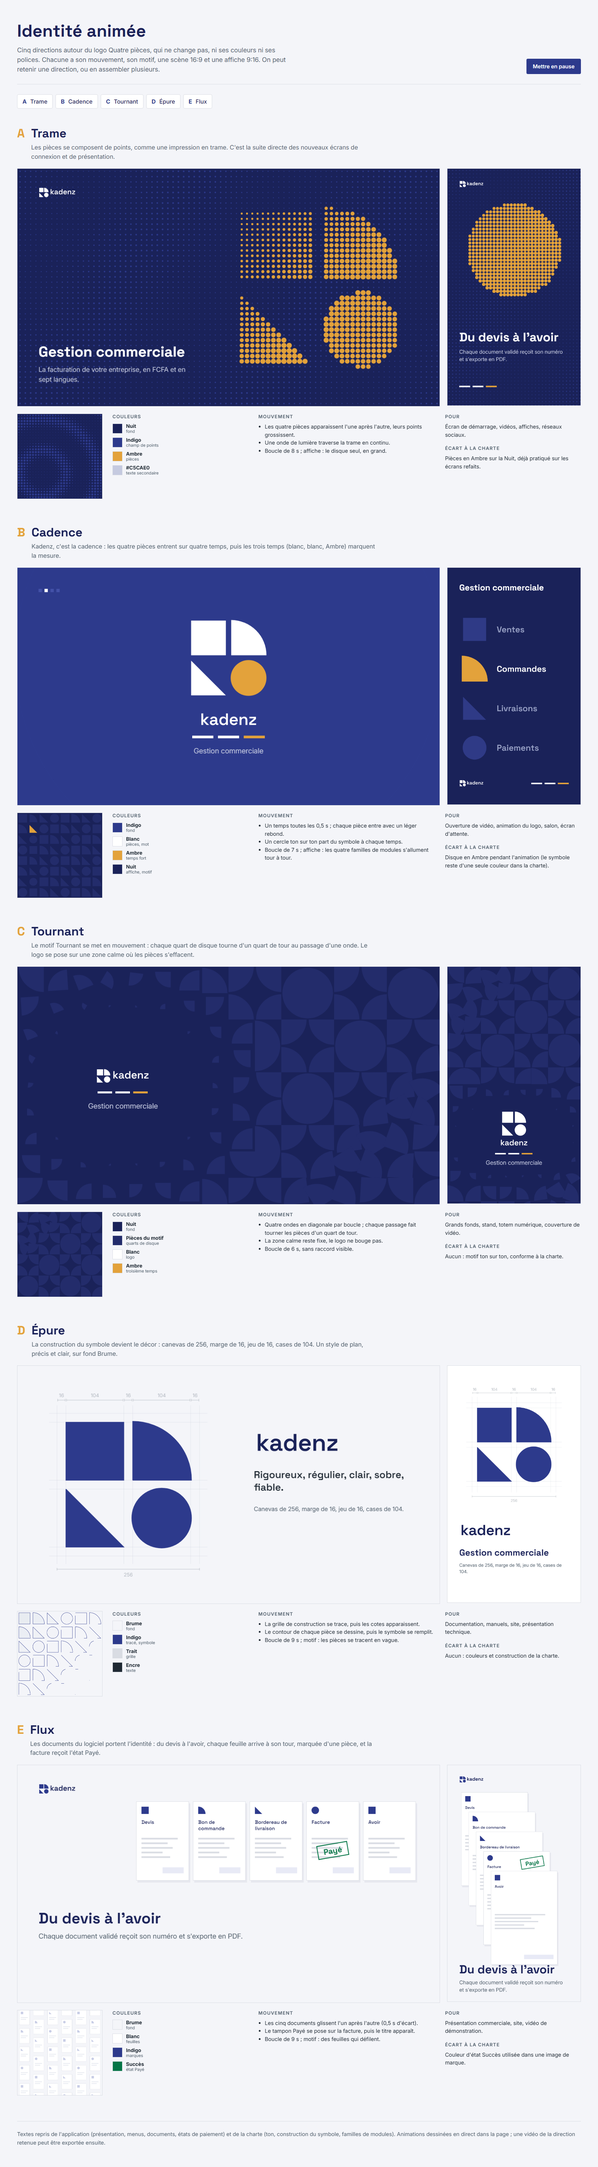
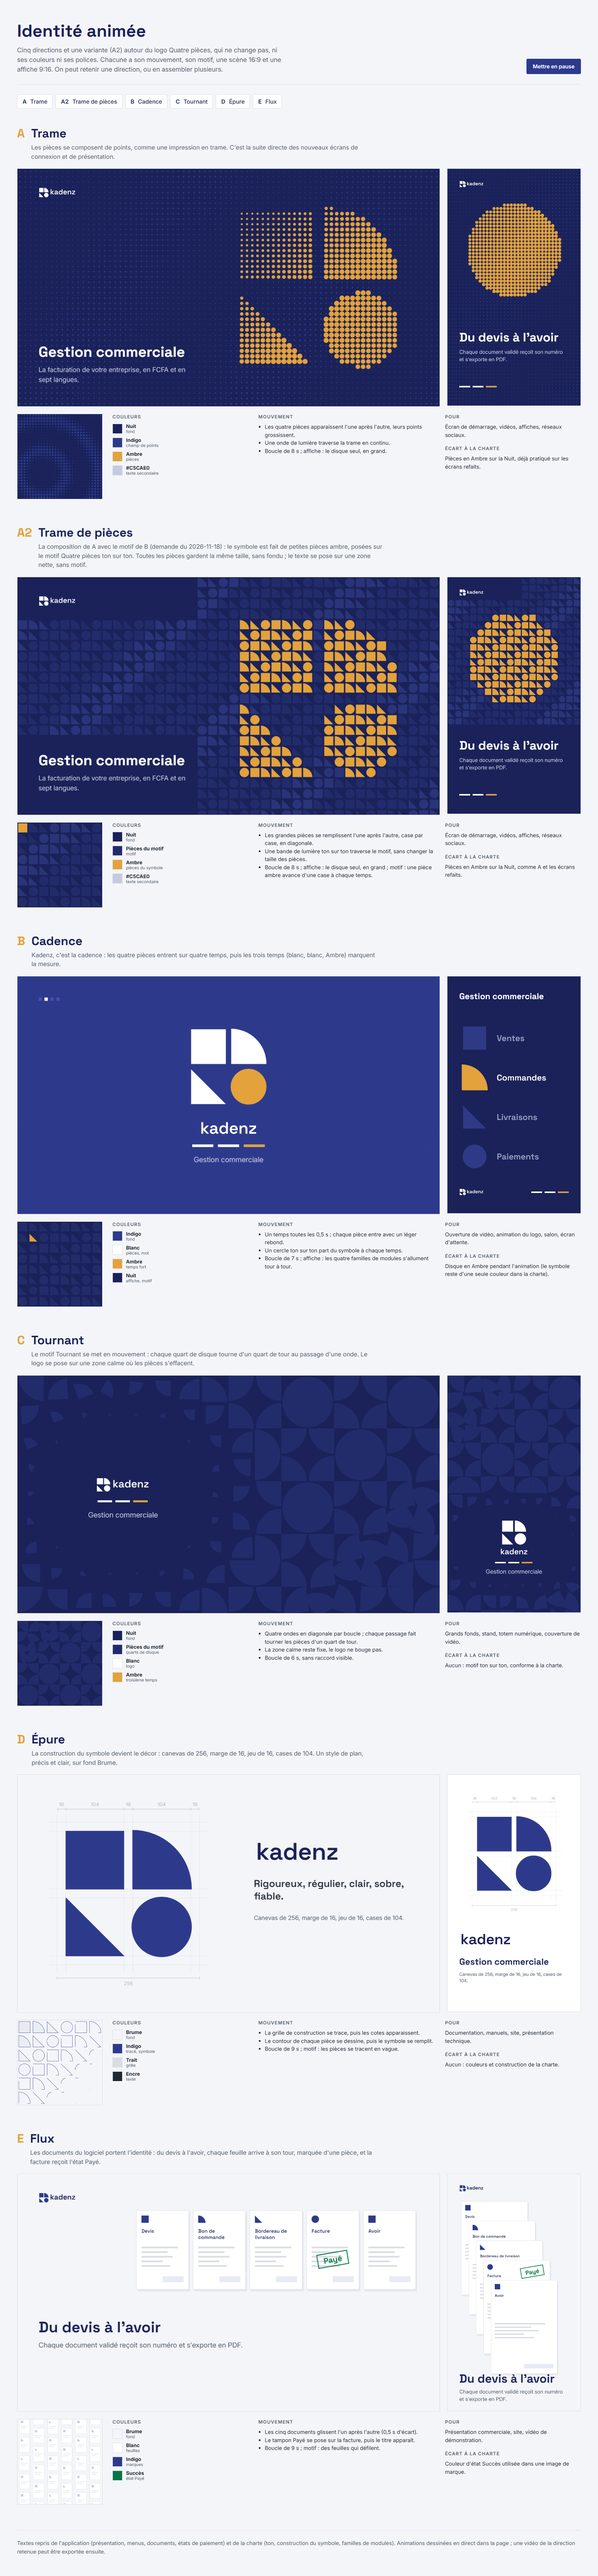
Marque : identité animée, variante A2 Trame de pièces

diff --git a/docs/marque/propositions-2026-11-18-identite-animee/index.html b/docs/marque/propositions-2026-11-18-identite-animee/index.html
@@ -51,12 +51,12 @@ footer { border-top:1px solid var(--trait); padding-top:24px; color:var(--ardois
 <body>
 <div class="entete">
   <div><h1>Identité animée</h1>
-  <p>Cinq directions autour du logo Quatre pièces, qui ne change pas, ni ses couleurs ni ses polices.
+  <p>Cinq directions et une variante (A2) autour du logo Quatre pièces, qui ne change pas, ni ses couleurs ni ses polices.
   Chacune a son mouvement, son motif, une scène 16:9 et une affiche 9:16. On peut retenir une direction,
   ou en assembler plusieurs.</p></div>
   <button id="pause" type="button">Mettre en pause</button>
 </div>
-<nav><a href="#dir-A"><b>A</b> Trame</a><a href="#dir-B"><b>B</b> Cadence</a><a href="#dir-C"><b>C</b> Tournant</a><a href="#dir-D"><b>D</b> Épure</a><a href="#dir-E"><b>E</b> Flux</a></nav>
+<nav><a href="#dir-A"><b>A</b> Trame</a><a href="#dir-A2"><b>A2</b> Trame de pièces</a><a href="#dir-B"><b>B</b> Cadence</a><a href="#dir-C"><b>C</b> Tournant</a><a href="#dir-D"><b>D</b> Épure</a><a href="#dir-E"><b>E</b> Flux</a></nav>
 <section id="dir-A">
   <header><span class="lettre">A</span><h2>Trame</h2><p>Les pièces se composent de points, comme une impression en trame. C'est la suite directe des nouveaux écrans de connexion et de présentation.</p></header>
   <div class="grille">
@@ -68,6 +68,19 @@ footer { border-top:1px solid var(--trait); padding-top:24px; color:var(--ardois
     <div><h3>Couleurs</h3><div class="puces"><span class="puce"><i style="background:#1A2259"></i><b>Nuit</b><small>fond</small></span><span class="puce"><i style="background:#2D3A8C"></i><b>Indigo</b><small>champ de points</small></span><span class="puce"><i style="background:#E3A23B"></i><b>Ambre</b><small>pièces</small></span><span class="puce"><i style="background:#C5CAE0"></i><b>#C5CAE0</b><small>texte secondaire</small></span></div></div>
     <div><h3>Mouvement</h3><ul><li>Les quatre pièces apparaissent l'une après l'autre, leurs points grossissent.</li><li>Une onde de lumière traverse la trame en continu.</li><li>Boucle de 8 s ; affiche : le disque seul, en grand.</li></ul></div>
     <div><h3>Pour</h3><p>Écran de démarrage, vidéos, affiches, réseaux sociaux.</p><h3>Écart à la charte</h3><p>Pièces en Ambre sur la Nuit, déjà pratiqué sur les écrans refaits.</p></div>
+  </div>
+</section>
+<section id="dir-A2">
+  <header><span class="lettre">A2</span><h2>Trame de pièces</h2><p>La composition de A avec le motif de B (demande du 2026-11-18) : le symbole est fait de petites pièces ambre, posées sur le motif Quatre pièces ton sur ton. Toutes les pièces gardent la même taille, sans fondu ; le texte se pose sur une zone nette, sans motif.</p></header>
+  <div class="grille">
+    <canvas data-dir="A2" data-cadre="scene" width="1280" height="720"></canvas>
+    <canvas data-dir="A2" data-cadre="affiche" width="540" height="960"></canvas>
+  </div>
+  <div class="infos">
+    <canvas data-dir="A2" data-cadre="motif" width="480" height="480"></canvas>
+    <div><h3>Couleurs</h3><div class="puces"><span class="puce"><i style="background:#1A2259"></i><b>Nuit</b><small>fond</small></span><span class="puce"><i style="background:#232C6B"></i><b>Pièces du motif</b><small>motif</small></span><span class="puce"><i style="background:#E3A23B"></i><b>Ambre</b><small>pièces du symbole</small></span><span class="puce"><i style="background:#C5CAE0"></i><b>#C5CAE0</b><small>texte secondaire</small></span></div></div>
+    <div><h3>Mouvement</h3><ul><li>Les grandes pièces se remplissent l'une après l'autre, case par case, en diagonale.</li><li>Une bande de lumière ton sur ton traverse le motif, sans changer la taille des pièces.</li><li>Boucle de 8 s ; affiche : le disque seul, en grand ; motif : une pièce ambre avance d'une case à chaque temps.</li></ul></div>
+    <div><h3>Pour</h3><p>Écran de démarrage, vidéos, affiches, réseaux sociaux.</p><h3>Écart à la charte</h3><p>Pièces en Ambre sur la Nuit, comme A et les écrans refaits.</p></div>
   </div>
 </section>
 <section id="dir-B">
@@ -226,6 +239,29 @@ function trame(c, w, h, o) {
   }
 }
 
+// Trame de pièces : le motif Quatre pièces (une pièce par case, décalée d'un temps à
+// chaque ligne) ; dans le symbole, les pièces passent en Ambre case par case. Taille
+// constante, aucun fondu ; vide(x, y) laisse des zones nettes pour le logo et le texte.
+function mosaique(c, w, h, o) {
+  const { ox, oy, S, cell, liste, croissance, T, vide } = o;
+  const m = cell / 2;
+  for (let j = 0; j * cell < h; j++) for (let i = 0; i * cell < w; i++) {
+    const cx = i * cell + m, cy = j * cell + m;
+    if (vide && vide(cx, cy)) continue;
+    const k = ORDRE[(i + j) % 4];
+    const u = (cx - ox) / S * 256, v = (cy - oy) / S * 256;
+    let p = null; for (const q of liste) if (dans(q, u, v)) { p = q; break; }
+    if (p) {
+      const g = croissance[ORDRE.indexOf(p)], [pcx, pcy] = CENTRE[p];
+      const r = clamp(((u - pcx) + (v - pcy)) / 208 + 0.5);
+      const e = g >= 1 ? 1 : eBack(clamp((g * 1.25 - r) / 0.25));
+      if (e > 0.01) { unePiece(c, k, cx, cy, cell * 0.86, C.ambre, e); continue; }
+    }
+    const l = 0.5 + 0.5 * Math.sin((i + j) * 0.45 - T * PI / 2);
+    unePiece(c, k, cx, cy, cell * 0.86, l > 0.8 ? "#2A3478" : C.motif);
+  }
+}
+
 // Tournant : quarts de disque qui tournent d'un quart de tour au passage d'une onde.
 function tournant(c, w, h, T, cell, calme) {
   fond(c, w, h, C.nuit);
@@ -334,6 +370,41 @@ const DIR = {
         const d = Math.hypot(x - w * 0.3, y - h * 0.7);
         const o = 0.5 + 0.5 * Math.sin(d * 0.035 - T * 2.2);
         c.fillStyle = C.indigo; c.beginPath(); c.arc(x, y, pas * (0.08 + 0.3 * o * o), 0, 2 * PI); c.fill();
+      }
+    },
+  },
+  A2: {
+    periode: 8, moment: 4.2,
+    scene(c, w, h, T) {
+      fond(c, w, h, C.nuit);
+      const sortie = 1 - lin(T, 7.3, 0.7);
+      const cr = ORDRE.map((k, i) => lin(T, 0.3 + i * 0.45, 0.9) * sortie);
+      const vide = (x, y) => x < 560 && (y < 120 || y > h - 232);
+      mosaique(c, w, h, { ox: w * 0.5, oy: h * 0.12, S: h * 0.76, cell: 32, liste: ORDRE, croissance: cr, T, vide });
+      const a = lin(T, 2.0, 0.6) * sortie;
+      image(c, "logoHN", 64, 56, 32, a);
+      texte(c, "Gestion commerciale", 64, h - 150, { taille: 44, poids: 700, titre: true, couleur: C.blanc, alpha: a });
+      paragraphe(c, "La facturation de votre entreprise, en FCFA et en sept langues.", 64, h - 104, 460, 30, { taille: 20, couleur: C.second, alpha: a });
+    },
+    affiche(c, w, h, T) {
+      fond(c, w, h, C.nuit);
+      const sortie = 1 - lin(T, 7.3, 0.7), g = lin(T, 0.3, 1.4) * sortie;
+      const S = 190 / 53.56 * 256;
+      const vide = (x, y) => y > 600 || (y < 100 && x < 300);
+      mosaique(c, w, h, { ox: 270 - 188 / 256 * S, oy: 330 - 188 / 256 * S, S, cell: 30, liste: ["disque"], croissance: [0, 0, 0, g], T, vide });
+      const a = lin(T, 1.6, 0.6) * sortie;
+      image(c, "logoHN", 48, 48, 28, a);
+      texte(c, "Du devis à l'avoir", 48, 700, { taille: 50, poids: 700, titre: true, couleur: C.blanc, alpha: a });
+      paragraphe(c, "Chaque document validé reçoit son numéro et s'exporte en PDF.", 48, 750, 420, 30, { taille: 21, couleur: C.second, alpha: a });
+      troisTemps(c, 48, 880, 44, 6, 10, null, a);
+    },
+    motif(c, w, h, T) {
+      fond(c, w, h, C.nuit);
+      const cell = 60, m = cell / 2, n = Math.floor(T / 0.5) % 8;
+      for (let j = 0; j < 8; j++) for (let i = 0; i < 8; i++) {
+        const l = 0.5 + 0.5 * Math.sin((i + j) * 0.45 - T * PI / 2);
+        const coul = i === n && j === n ? C.ambre : (l > 0.8 ? "#2A3478" : C.motif);
+        unePiece(c, ORDRE[(i + j) % 4], i * cell + m, j * cell + m, cell * 0.86, coul);
       }
     },
   },

diff --git a/docs/marque/propositions-2026-11-18-identite-animee/generer.py b/docs/marque/propositions-2026-11-18-identite-animee/generer.py
@@ -43,6 +43,19 @@ DIRECTIONS = [
         "ecart": "Pièces en Ambre sur la Nuit, déjà pratiqué sur les écrans refaits.",
     },
     {
+        "id": "A2", "nom": "Trame de pièces",
+        "idee": "La composition de A avec le motif de B (demande du 2026-11-18) : le symbole est fait de "
+                "petites pièces ambre, posées sur le motif Quatre pièces ton sur ton. Toutes les pièces gardent "
+                "la même taille, sans fondu ; le texte se pose sur une zone nette, sans motif.",
+        "couleurs": [("Nuit", "#1A2259", "fond"), ("Pièces du motif", "#232C6B", "motif"),
+                     ("Ambre", "#E3A23B", "pièces du symbole"), ("#C5CAE0", "#C5CAE0", "texte secondaire")],
+        "mouvement": ["Les grandes pièces se remplissent l'une après l'autre, case par case, en diagonale.",
+                      "Une bande de lumière ton sur ton traverse le motif, sans changer la taille des pièces.",
+                      "Boucle de 8 s ; affiche : le disque seul, en grand ; motif : une pièce ambre avance d'une case à chaque temps."],
+        "usages": "Écran de démarrage, vidéos, affiches, réseaux sociaux.",
+        "ecart": "Pièces en Ambre sur la Nuit, comme A et les écrans refaits.",
+    },
+    {
         "id": "B", "nom": "Cadence",
         "idee": "Kadenz, c'est la cadence : les quatre pièces entrent sur quatre temps, "
                 "puis les trois temps (blanc, blanc, Ambre) marquent la mesure.",
@@ -221,6 +234,29 @@ function trame(c, w, h, o) {
   }
 }
 
+// Trame de pièces : le motif Quatre pièces (une pièce par case, décalée d'un temps à
+// chaque ligne) ; dans le symbole, les pièces passent en Ambre case par case. Taille
+// constante, aucun fondu ; vide(x, y) laisse des zones nettes pour le logo et le texte.
+function mosaique(c, w, h, o) {
+  const { ox, oy, S, cell, liste, croissance, T, vide } = o;
+  const m = cell / 2;
+  for (let j = 0; j * cell < h; j++) for (let i = 0; i * cell < w; i++) {
+    const cx = i * cell + m, cy = j * cell + m;
+    if (vide && vide(cx, cy)) continue;
+    const k = ORDRE[(i + j) % 4];
+    const u = (cx - ox) / S * 256, v = (cy - oy) / S * 256;
+    let p = null; for (const q of liste) if (dans(q, u, v)) { p = q; break; }
+    if (p) {
+      const g = croissance[ORDRE.indexOf(p)], [pcx, pcy] = CENTRE[p];
+      const r = clamp(((u - pcx) + (v - pcy)) / 208 + 0.5);
+      const e = g >= 1 ? 1 : eBack(clamp((g * 1.25 - r) / 0.25));
+      if (e > 0.01) { unePiece(c, k, cx, cy, cell * 0.86, C.ambre, e); continue; }
+    }
+    const l = 0.5 + 0.5 * Math.sin((i + j) * 0.45 - T * PI / 2);
+    unePiece(c, k, cx, cy, cell * 0.86, l > 0.8 ? "#2A3478" : C.motif);
+  }
+}
+
 // Tournant : quarts de disque qui tournent d'un quart de tour au passage d'une onde.
 function tournant(c, w, h, T, cell, calme) {
   fond(c, w, h, C.nuit);
@@ -329,6 +365,41 @@ const DIR = {
         const d = Math.hypot(x - w * 0.3, y - h * 0.7);
         const o = 0.5 + 0.5 * Math.sin(d * 0.035 - T * 2.2);
         c.fillStyle = C.indigo; c.beginPath(); c.arc(x, y, pas * (0.08 + 0.3 * o * o), 0, 2 * PI); c.fill();
+      }
+    },
+  },
+  A2: {
+    periode: 8, moment: 4.2,
+    scene(c, w, h, T) {
+      fond(c, w, h, C.nuit);
+      const sortie = 1 - lin(T, 7.3, 0.7);
+      const cr = ORDRE.map((k, i) => lin(T, 0.3 + i * 0.45, 0.9) * sortie);
+      const vide = (x, y) => x < 560 && (y < 120 || y > h - 232);
+      mosaique(c, w, h, { ox: w * 0.5, oy: h * 0.12, S: h * 0.76, cell: 32, liste: ORDRE, croissance: cr, T, vide });
+      const a = lin(T, 2.0, 0.6) * sortie;
+      image(c, "logoHN", 64, 56, 32, a);
+      texte(c, "Gestion commerciale", 64, h - 150, { taille: 44, poids: 700, titre: true, couleur: C.blanc, alpha: a });
+      paragraphe(c, "La facturation de votre entreprise, en FCFA et en sept langues.", 64, h - 104, 460, 30, { taille: 20, couleur: C.second, alpha: a });
+    },
+    affiche(c, w, h, T) {
+      fond(c, w, h, C.nuit);
+      const sortie = 1 - lin(T, 7.3, 0.7), g = lin(T, 0.3, 1.4) * sortie;
+      const S = 190 / 53.56 * 256;
+      const vide = (x, y) => y > 600 || (y < 100 && x < 300);
+      mosaique(c, w, h, { ox: 270 - 188 / 256 * S, oy: 330 - 188 / 256 * S, S, cell: 30, liste: ["disque"], croissance: [0, 0, 0, g], T, vide });
+      const a = lin(T, 1.6, 0.6) * sortie;
+      image(c, "logoHN", 48, 48, 28, a);
+      texte(c, "Du devis à l'avoir", 48, 700, { taille: 50, poids: 700, titre: true, couleur: C.blanc, alpha: a });
+      paragraphe(c, "Chaque document validé reçoit son numéro et s'exporte en PDF.", 48, 750, 420, 30, { taille: 21, couleur: C.second, alpha: a });
+      troisTemps(c, 48, 880, 44, 6, 10, null, a);
+    },
+    motif(c, w, h, T) {
+      fond(c, w, h, C.nuit);
+      const cell = 60, m = cell / 2, n = Math.floor(T / 0.5) % 8;
+      for (let j = 0; j < 8; j++) for (let i = 0; i < 8; i++) {
+        const l = 0.5 + 0.5 * Math.sin((i + j) * 0.45 - T * PI / 2);
+        const coul = i === n && j === n ? C.ambre : (l > 0.8 ? "#2A3478" : C.motif);
+        unePiece(c, ORDRE[(i + j) % 4], i * cell + m, j * cell + m, cell * 0.86, coul);
       }
     },
   },
@@ -590,7 +661,7 @@ footer {{ border-top:1px solid var(--trait); padding-top:24px; color:var(--ardoi
 <body>
 <div class="entete">
   <div><h1>Identité animée</h1>
-  <p>Cinq directions autour du logo Quatre pièces, qui ne change pas, ni ses couleurs ni ses polices.
+  <p>Cinq directions et une variante (A2) autour du logo Quatre pièces, qui ne change pas, ni ses couleurs ni ses polices.
   Chacune a son mouvement, son motif, une scène 16:9 et une affiche 9:16. On peut retenir une direction,
   ou en assembler plusieurs.</p></div>
   <button id="pause" type="button">Mettre en pause</button>
@@ -610,7 +681,7 @@ if __name__ == "__main__":
     html.write_text(page(), encoding="utf-8")
     png = ICI / "planche-identite-animee.png"
     subprocess.run([CHROME, "--headless=new", "--hide-scrollbars", "--disable-gpu",
-                    "--window-size=1680,6200", f"--screenshot={png}", "--virtual-time-budget=6000",
+                    "--window-size=1680,7400", f"--screenshot={png}", "--virtual-time-budget=6000",
                     "--allow-file-access-from-files", html.as_uri() + "?fige=1"], check=True,
                    stdout=subprocess.DEVNULL, stderr=subprocess.DEVNULL)
     print(html)

diff --git a/.claude/journal.md b/.claude/journal.md
@@ -682,3 +682,4 @@
 [2026-11-18 05:30:34] Instruction - Relance des tests et de clippy des corrections du mode sombre : l'utilisateur choisit d'attendre (0,8 Go libre). Corrections laissées dans l'arbre, non commitées ; kadenz-b7 prévenu.
 [2026-11-18 05:36:41] Instruction - Montrer le mode clair des écrans refaits : planche docs/marque/refonte-mode-clair-2026-11-18 (présentation, inscription, connexion, assistant, réglage de l'affichage), captures sur dossiers d'essai. Demandes suivantes : une identité déclinée en plusieurs styles, avec motifs et si possible animations ; l'utilisateur veut transmettre des vidéos.
 [2026-11-18 05:46:10] Suggestion - Identité animée : cinq directions proposées autour du logo Quatre pièces inchangé (A Trame, B Cadence, C Tournant, D Épure, E Flux), chacune avec scène 16:9, affiche 9:16 et motif animés (docs/marque/propositions-2026-11-18-identite-animee/index.html), écarts à la charte signalés. Les vidéos de l'utilisateur viendront ensuite ; ffmpeg déjà installé par winget (chemin complet, hors PATH des sessions ouvertes).
+[2026-11-18 06:01:44] Suggestion - Identité animée : variante A2 « Trame de pièces » demandée (A avec le motif de B, sans fondu) : symbole en petites pièces ambre sur le motif Quatre pièces ton sur ton, taille constante, zones nettes pour le texte. L'utilisateur juge C déjà bon ; décision finale à venir.
